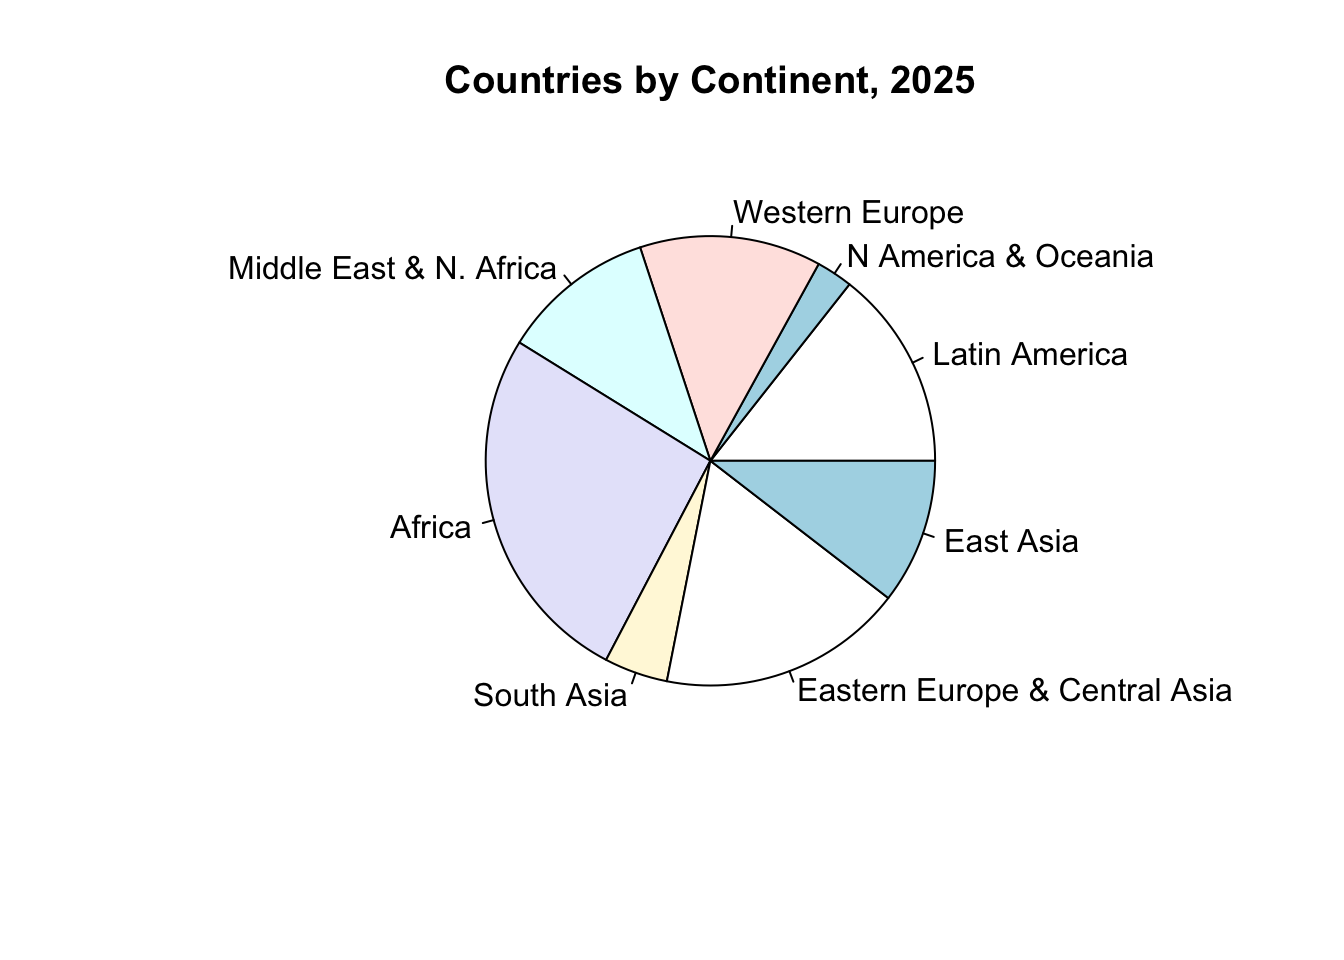
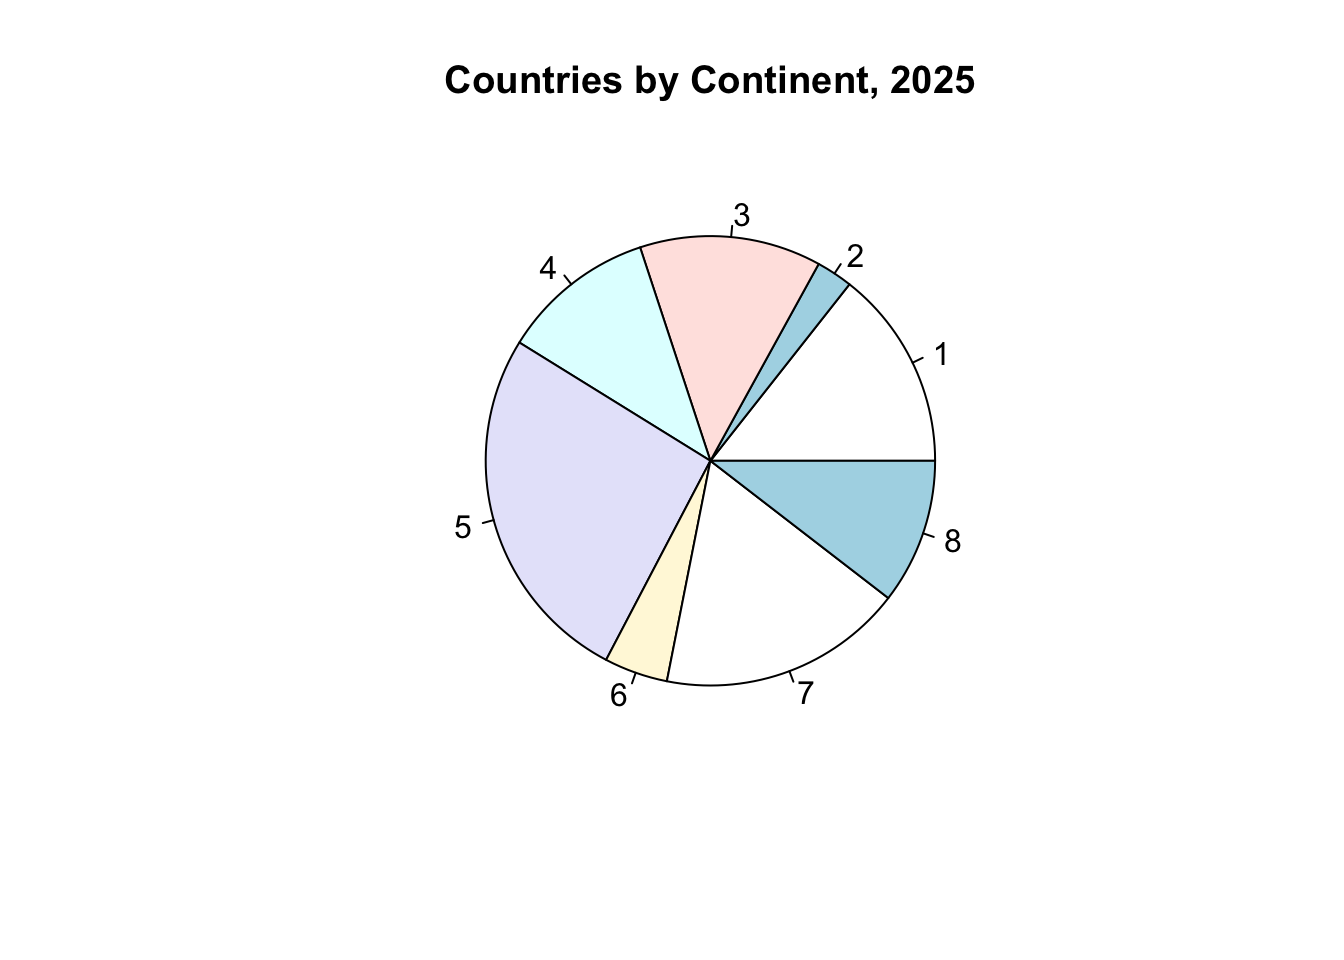
Update Assignment 2 pie chart labels

diff --git a/docs/epps6356_assign02.html b/docs/epps6356_assign02.html
@@ -410,7 +410,7 @@ pre > code.sourceCode > span > a:first-child::before { text-decoration: underlin
 <span id="cb7-13"><a href="#cb7-13" aria-hidden="true" tabindex="-1"></a></span>
 <span id="cb7-14"><a href="#cb7-14" aria-hidden="true" tabindex="-1"></a><span class="fu">pie</span>(</span>
 <span id="cb7-15"><a href="#cb7-15" aria-hidden="true" tabindex="-1"></a>  continent_counts,</span>
-<span id="cb7-16"><a href="#cb7-16" aria-hidden="true" tabindex="-1"></a>  <span class="at">labels =</span> continent_names,</span>
+<span id="cb7-16"><a href="#cb7-16" aria-hidden="true" tabindex="-1"></a>  <span class="at">labels =</span> <span class="fu">names</span>(continent_counts),</span>
 <span id="cb7-17"><a href="#cb7-17" aria-hidden="true" tabindex="-1"></a>  <span class="at">main =</span> <span class="st">"Countries by Continent, 2025"</span></span>
 <span id="cb7-18"><a href="#cb7-18" aria-hidden="true" tabindex="-1"></a>)</span></code></pre></div><button title="Copy to Clipboard" class="code-copy-button"><i class="bi"></i></button></div>
 </details>
